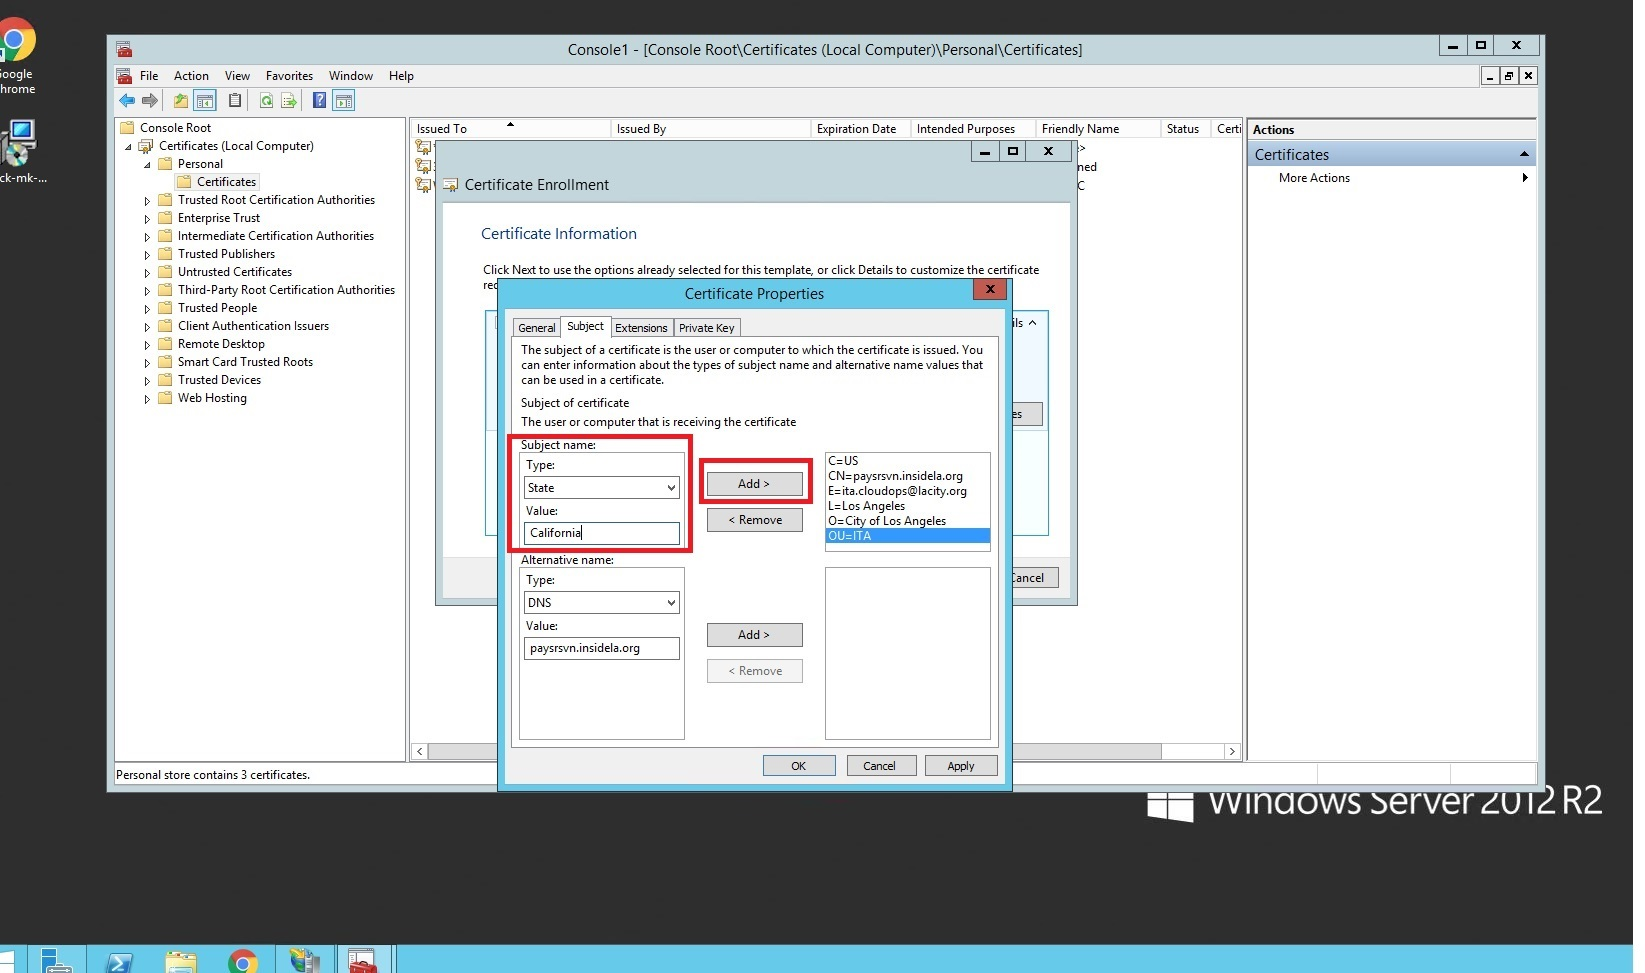
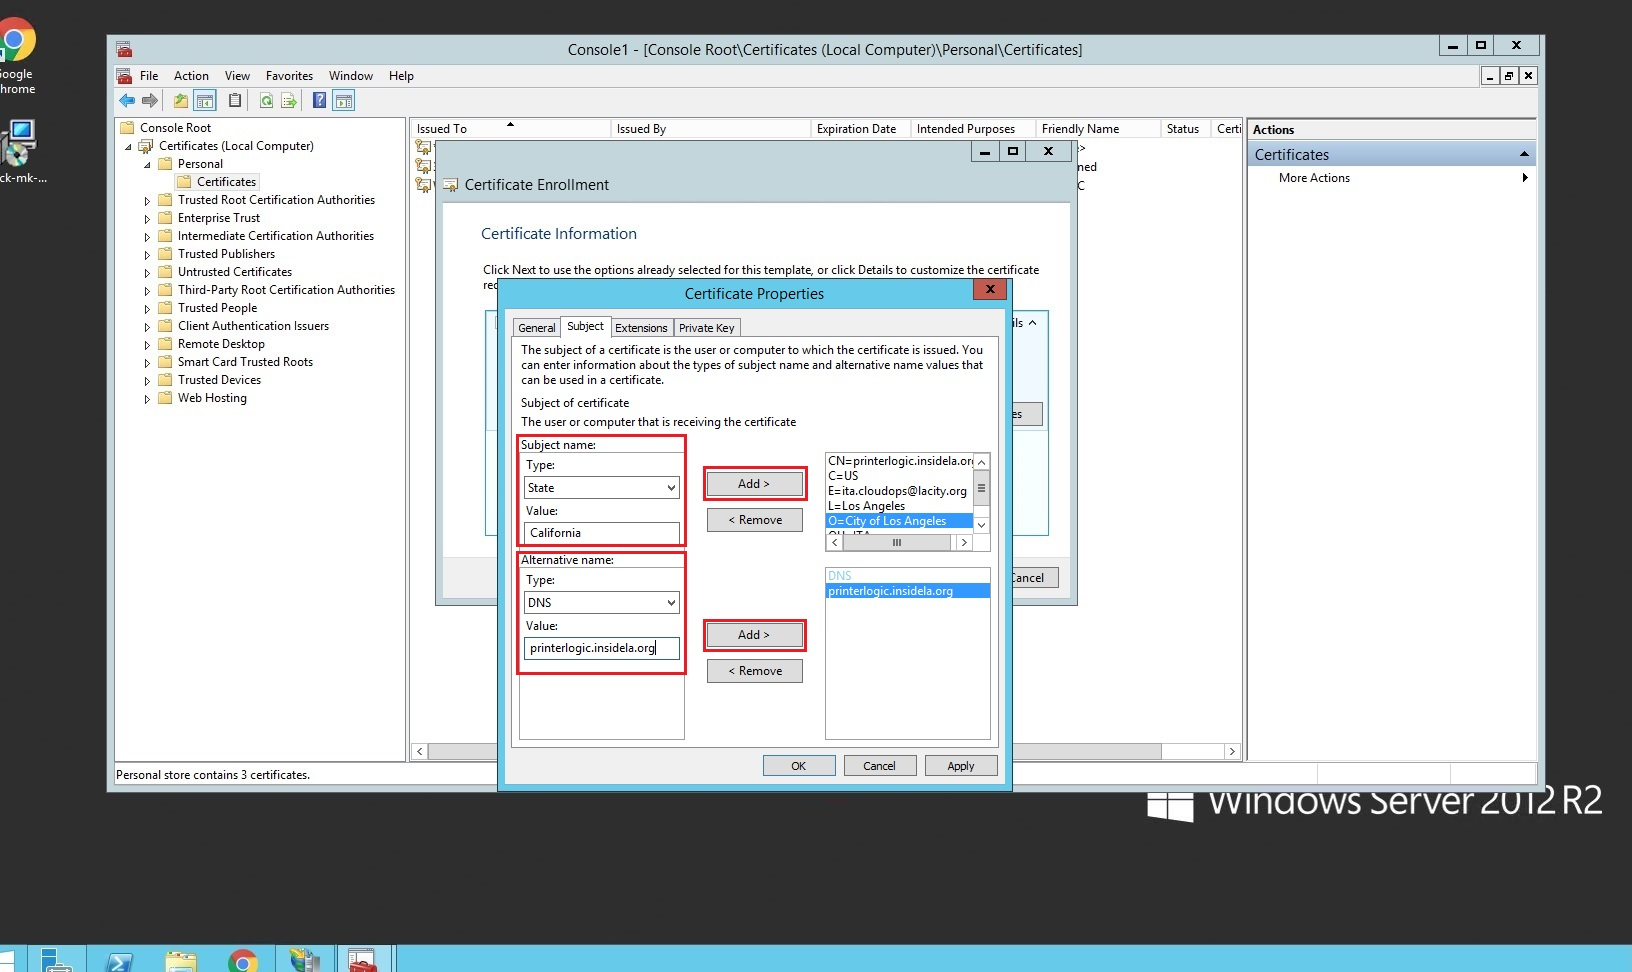
Version 1.1 - Added Step 7 and fixed missing images

diff --git a/index.rst b/index.rst
@@ -156,7 +156,7 @@ is for
 
    **Alternative name**
 
-   1. **DNS:** paysrsvn.insidela.org
+   1. **DNS:** printerlogic.insidela.org
 
 .. image:: img/step5-subjectcsr.jpg
 
@@ -216,3 +216,34 @@ Step 6
 3. Finally send it to your team who manages your SSL certificates requests, in this case, ITA-DSA
 
 .. image:: img/step6-verify.jpg
+
+
+
+Step 7 (Optional)
+####################
+
+To verify the validility of your certificate request (CSR)
+
+   1. Open your CSR File in notepad
+
+   .. image:: img/step7-opencsr.jpg
+
+
+   2. Copy the contents of the CSR file
+
+   .. image:: img/step7-copycsr.jpg
+
+
+
+   3. Go to https://ssltools.digicert.com/checker/views/csrCheck.jsp
+
+      1. Paste your CSR file contents on the window
+      2. Click **Check CSR**
+
+      .. image:: img/step7-pastecsr.jpg
+
+
+   4. Verify the information is correct on the **Certificate information** tab
+
+      .. image:: img/step7-verifycsr.jpg
+
